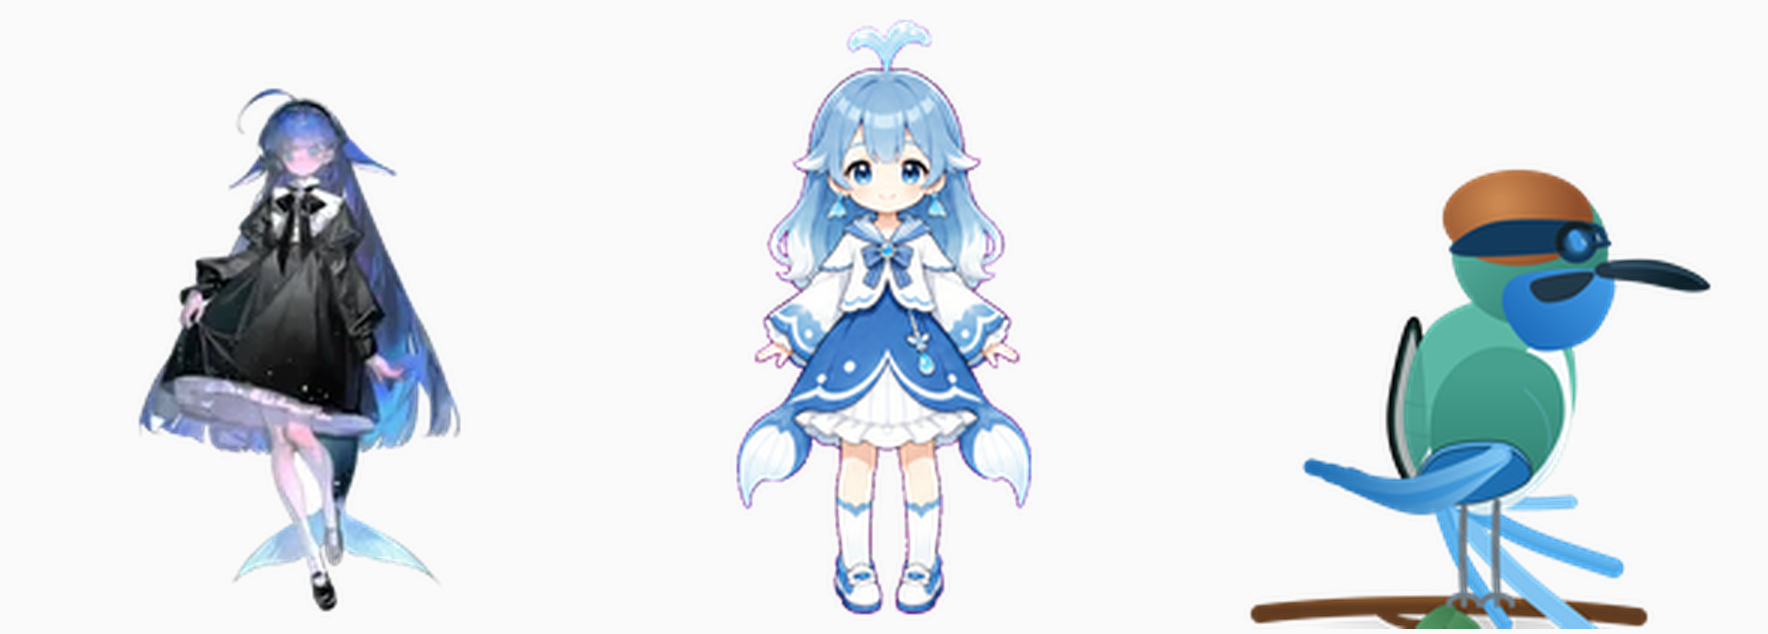
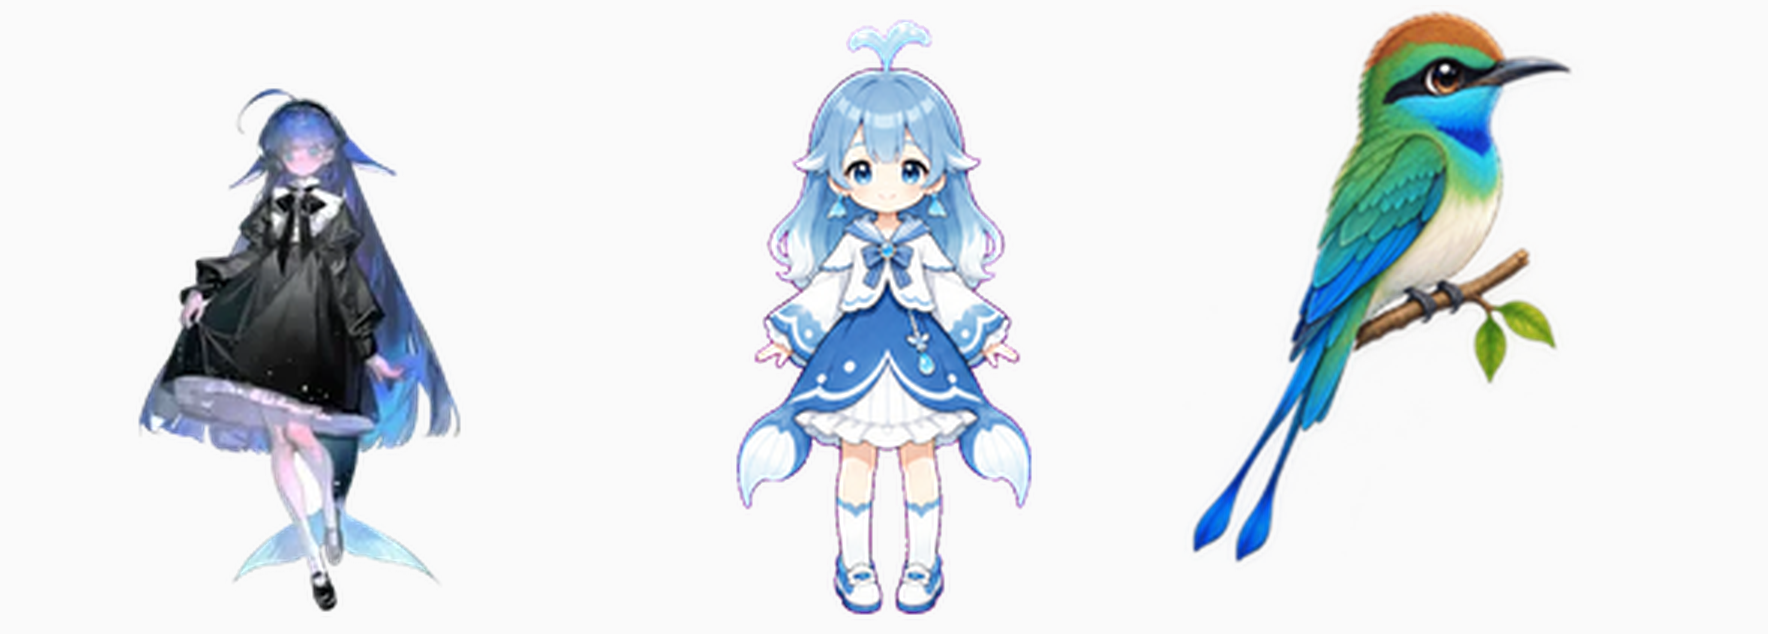
docs(archive): prune superseded-route evidence from the pr
Keep only the shipped-route evidence: contact/zoom sheets and the compare strip are regenerated from the final composer; removal of the flat/gradient/pixel attempt galleries (strip-runright, strip-left, zoom-*, pixel-*), the redundant gen-pet-ai.py snapshot and tangential research images.

Changed region(s): [[0.6533, 0.0, 0.9644, 1.0]]

diff --git a/docs/archive/blue-throated-bee-eater-pet/validation.md b/docs/archive/blue-throated-bee-eater-pet/validation.md
@@ -31,11 +31,11 @@ A built-in sprite2d pet for dsh-pet (`packages/dsh-pet/assets/blue-throated-bee-
 
 ## Real-GUI evidence
 
-Scratch DSH web instance (scratch home + official dsh CLI; verified against the real registry): the pet renders docked with the correct tray (小蜜蜂 treats stat, feed label from the i18n copy), the landing sequence plays on the done phase, and the nine previews animate with the final choreography. Evidence files in this directory: gui-pet-dock-a/b/c.png, gui-pet-animation-strip.png, gui-panel.png, gui-feed-bubble.png, pets-api.json, contact-sheet.png, zoom-sheet.png, strip-jump.png (landing), strip-idle.png, strip-front.png, strip-waiting.png, user-sheet*.png, compare-idle.png, pixel-style-gate.png, pixel-parts.png, whale-rows.png.
+Scratch DSH web instance (scratch home + official dsh CLI; verified against the real registry): the pet renders docked with the correct tray (小蜜蜂 treats stat, feed label from the i18n copy), the landing sequence plays on the done phase, and the nine previews animate with the final choreography. Evidence files in this directory: gui-pet-dock-a/b/c.png, gui-pet-animation-strip.png, gui-panel.png, pets-api.json, contact-sheet.png, zoom-sheet.png, strip-jump.png (landing), strip-idle.png, strip-front.png, strip-waiting.png, user-sheet*.png (source previews), compare-idle.png. Superseded-route evidence (from the flat PIL, gradient and pixel-art attempts) is kept only in git history, not in the shipped archive.
 
 ## Rejected / no-go notes (kept for the record)
 
-- Pixel-art and programmatic flat/gradient art: reached the contributor's visual ceiling; archived as experiments (gen-pet-pixel.py; early gen-pet revisions in git history).
+- Pixel-art and programmatic flat/gradient art: reached the contributor's visual ceiling; the pixel pipeline stays in git history as gen-pet-pixel.py (evidence files from those attempts were removed from the shipped archive).
 - Renaming the `jumping` row to `landing`: rejected — it is the shared hatch-pet contract name used by every existing pet (per the contributor's rule: repository convention stays).
 - Pet bubble color tokenization (skin-driven bubbles): attempted, then reverted per "if the repository owner would not want it, do not do it" — the shared pet client chrome stays untouched; bubble palette remains the pet plugin's blue family.
 - Blink on idle / front hover: removed after review (kept only on waiting).
